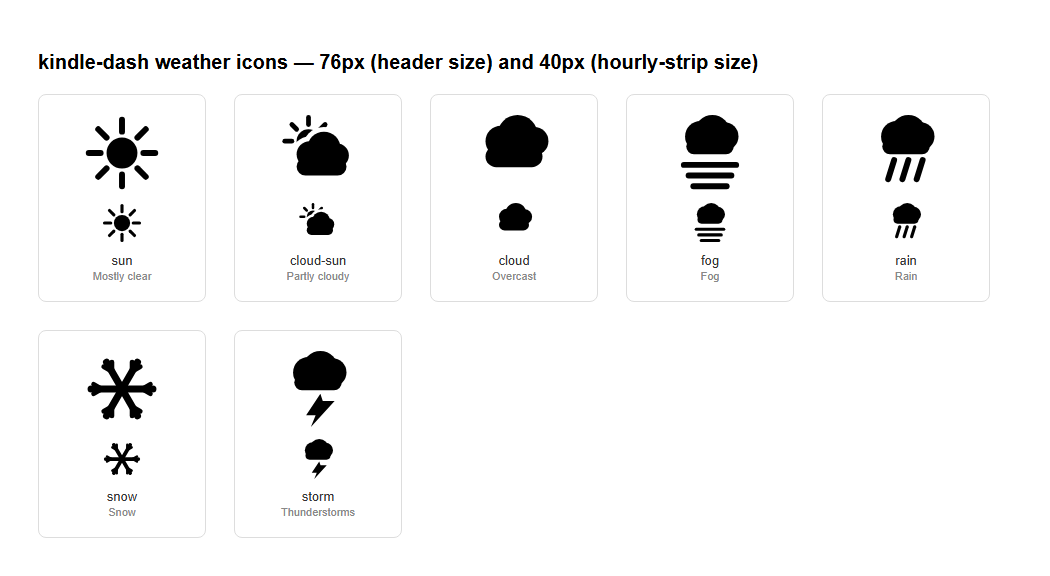
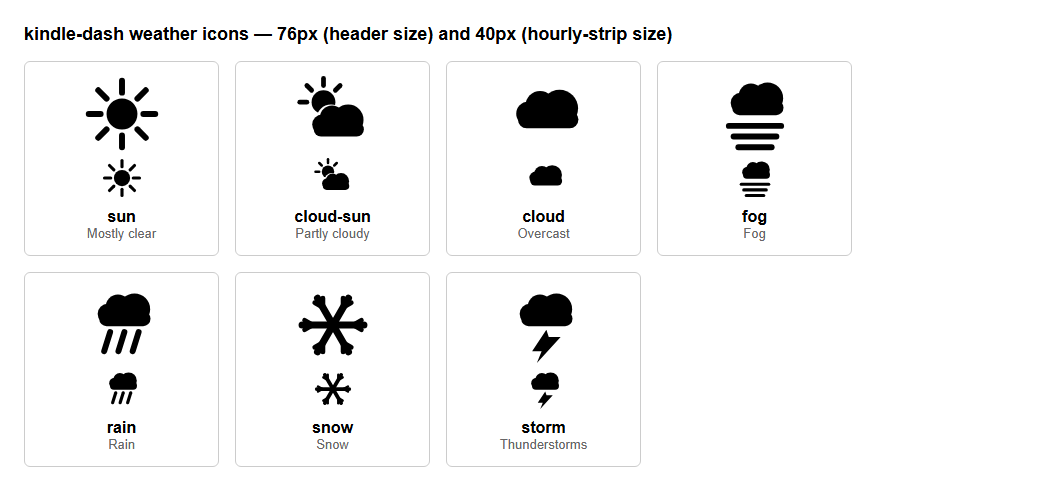
Redesign cloud silhouette to a smoother, rounder 3-lobe shape
The old cloud (a rect plus three circles, hand-tuned separately in four
places: the shared fog/rain/storm base, the standalone overcast icon,
and the cloud-sun/cloud-moon halo pair) read as narrow and slightly
notched between lobes. Replace it with a single _cloud(x, y, w, h)
helper -- flat-bottomed base, small lobe lower-left, medium lobe
upper-left, dominant lobe upper-right-of-center, all deeply overlapping
for a seamless outline -- at a consistent ~1.6:1 wide-to-tall ratio
matching a reference cloud glyph. Every cloud appearance now calls the
same helper instead of maintaining its own copy of the geometry, with
bounding boxes chosen to keep left/right/bottom edges anchored where
they were so rain/snow/bolt/mist/sun/moon accents stay correctly placed.

Regenerated icon_preview.png from the new shapes.

diff --git a/render.py b/render.py
@@ -70,14 +70,32 @@ WMO_ICON = {
     95: "storm", 96: "storm", 99: "storm",
 }
 
-# Shared cloud silhouette (a rounded bar plus three overlapping circles)
-# used as the base of every cloud-derived icon, positioned in the upper
-# half of the 64x64 viewBox so accents (rain/snow/bolt/mist) sit below it.
-_CLOUD_TOP = (
-    '<rect x="12" y="20" width="40" height="13" rx="6.5"/>'
-    '<circle cx="24" cy="18" r="13"/><circle cx="34" cy="15" r="15"/>'
-    '<circle cx="44" cy="18" r="12"/>'
-)
+# Shared cloud silhouette: a flat-bottomed base plus three overlapping
+# circles -- a small lobe lower-left, a medium lobe upper-left, and a
+# dominant (tallest) lobe upper-right-of-center -- the classic rounded
+# 3-lobe cloud glyph. Deep overlaps between adjacent lobes keep the
+# outline smooth with no notches where they meet. Takes the silhouette's
+# bounding box (x, y) to (x+w, y+h) so every cloud-derived icon can place
+# it at a consistent ~1.6:1 (wider-than-tall) aspect ratio while still
+# anchoring left/right/bottom edges to wherever that icon's other
+# elements (rain/snow/bolt/mist/sun/moon) expect the cloud to sit.
+def _cloud(x, y, w, h):
+    rect_w, rect_h = w * 0.96, h * 0.45
+    rect_x, rect_y = x + w * 0.04, y + h - h * 0.45
+    return (
+        f'<rect x="{rect_x:.1f}" y="{rect_y:.1f}" width="{rect_w:.1f}" '
+        f'height="{rect_h:.1f}" rx="{rect_h / 2:.1f}"/>'
+        f'<circle cx="{x + w * 0.20:.1f}" cy="{y + h * 0.62:.1f}" r="{h * 0.31:.1f}"/>'
+        f'<circle cx="{x + w * 0.39:.1f}" cy="{y + h * 0.41:.1f}" r="{h * 0.38:.1f}"/>'
+        f'<circle cx="{x + w * 0.70:.1f}" cy="{y + h * 0.48:.1f}" r="{h * 0.48:.1f}"/>'
+    )
+
+
+# Bounding boxes (x, y, w, h) for each cloud appearance below, chosen to
+# keep the same left/right/bottom anchoring the old hand-tuned shapes
+# had -- so rain/snow/bolt/mist/sun/moon accents stay correctly
+# positioned relative to the new silhouette.
+_CLOUD_TOP = _cloud(11, 5.5, 45, 27.5)
 
 WEATHER_ICON_SVG = {
     "sun": (
@@ -100,20 +118,10 @@ WEATHER_ICON_SVG = {
         # the real cloud on top at normal size. That leaves a clean margin
         # around the cloud's outer silhouette without seams where the cloud
         # overlaps itself.
-        '<g fill="#fff">'
-        '<rect x="10" y="32" width="50" height="23" rx="11.5"/>'
-        '<circle cx="25" cy="33" r="15"/><circle cx="37" cy="28" r="18"/>'
-        '<circle cx="48" cy="34" r="14"/>'
-        '</g>'
-        '<rect x="14" y="36" width="42" height="15" rx="7.5"/>'
-        '<circle cx="25" cy="33" r="11"/><circle cx="37" cy="28" r="14"/>'
-        '<circle cx="48" cy="34" r="10"/>'
+        '<g fill="#fff">' + _cloud(10, 23.2, 52, 31.8) + '</g>'
+        + _cloud(14, 24.1, 44, 26.9)
     ),
-    "cloud": (
-        '<rect x="8" y="26" width="48" height="18" rx="9"/>'
-        '<circle cx="21" cy="22" r="13"/><circle cx="35" cy="17" r="17"/>'
-        '<circle cx="49" cy="22" r="12"/>'
-    ),
+    "cloud": _cloud(8, 11.6, 53, 32.4),
     # Crescents: a solid circle with a second, offset circle in paper-white
     # drawn on top to bite out the crescent shape. Same halo-style technique
     # as the cloud icons -- no strokes/gradients, just two solid fills.
@@ -128,14 +136,8 @@ WEATHER_ICON_SVG = {
         # instead of being swallowed by the cloud's occlusion.
         '<circle cx="19" cy="15" r="12"/>'
         '<circle cx="25" cy="10" r="10" fill="#fff"/>'
-        '<g fill="#fff">'
-        '<rect x="10" y="32" width="50" height="23" rx="11.5"/>'
-        '<circle cx="25" cy="33" r="15"/><circle cx="37" cy="28" r="18"/>'
-        '<circle cx="48" cy="34" r="14"/>'
-        '</g>'
-        '<rect x="14" y="36" width="42" height="15" rx="7.5"/>'
-        '<circle cx="25" cy="33" r="11"/><circle cx="37" cy="28" r="14"/>'
-        '<circle cx="48" cy="34" r="10"/>'
+        '<g fill="#fff">' + _cloud(10, 23.2, 52, 31.8) + '</g>'
+        + _cloud(14, 24.1, 44, 26.9)
     ),
     "fog": (
         _CLOUD_TOP +
